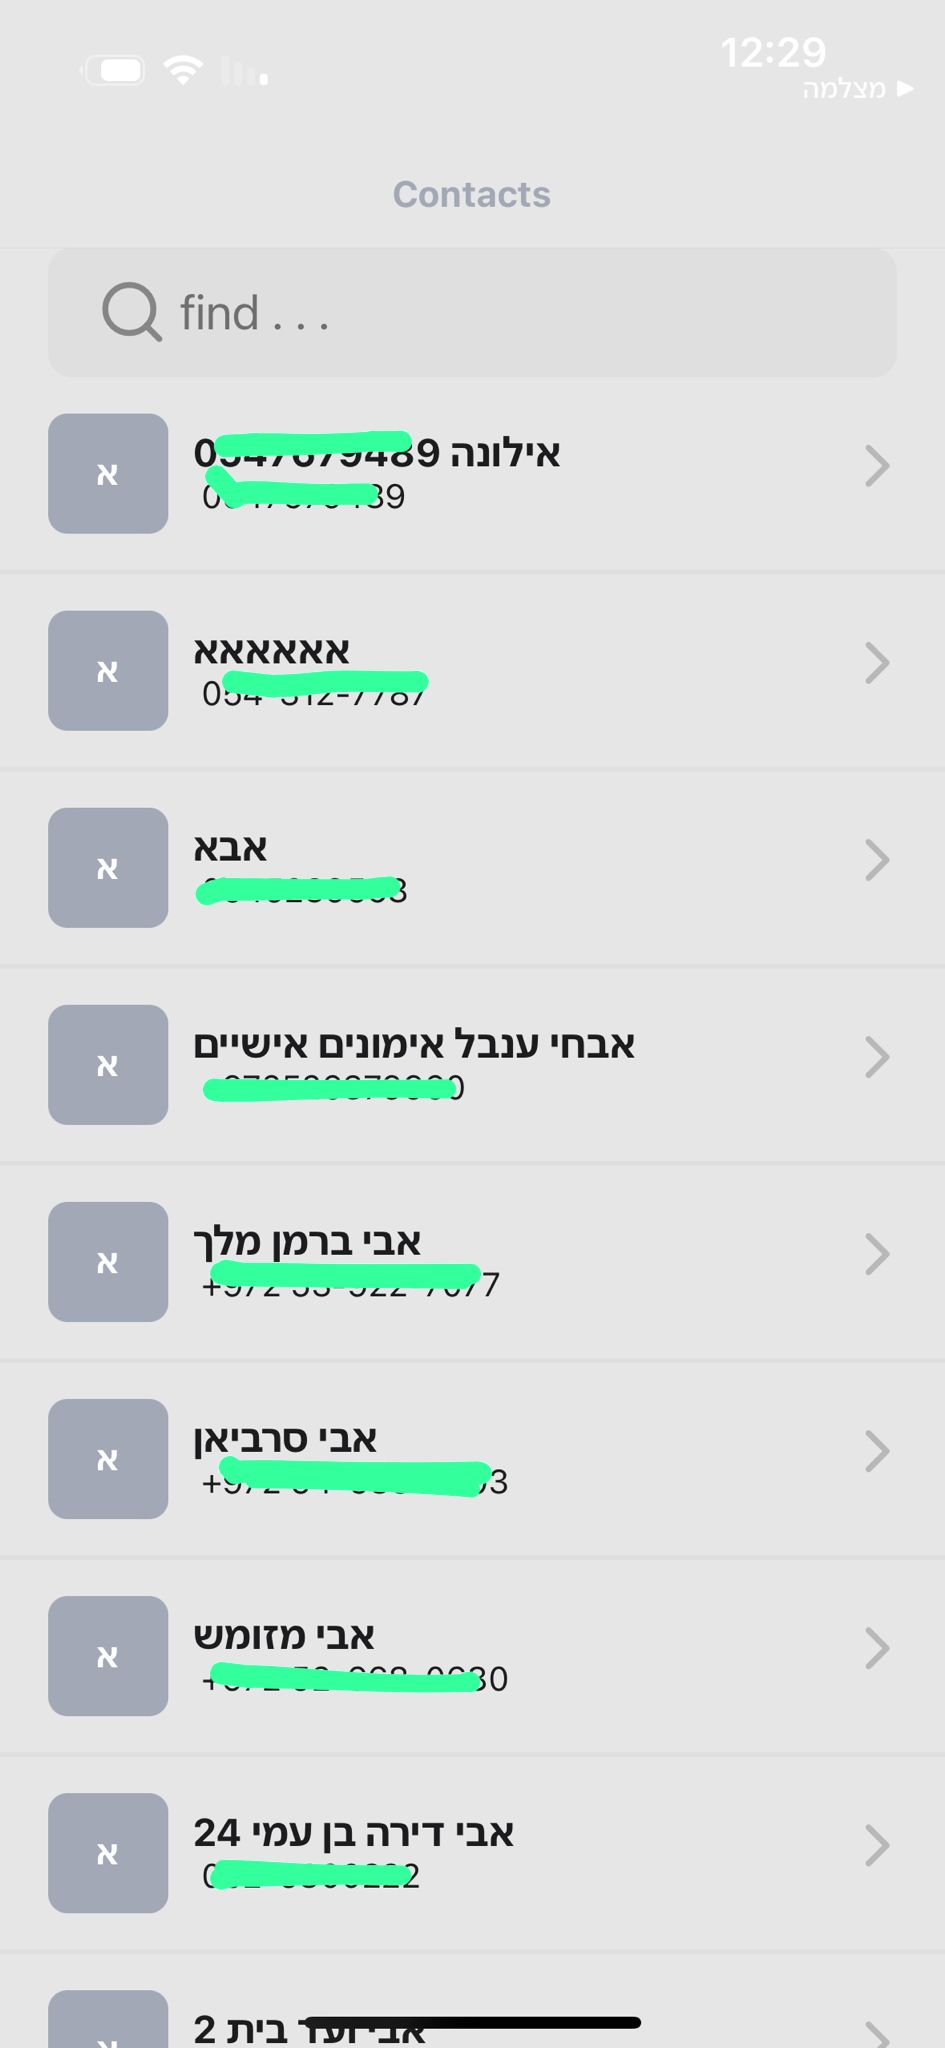
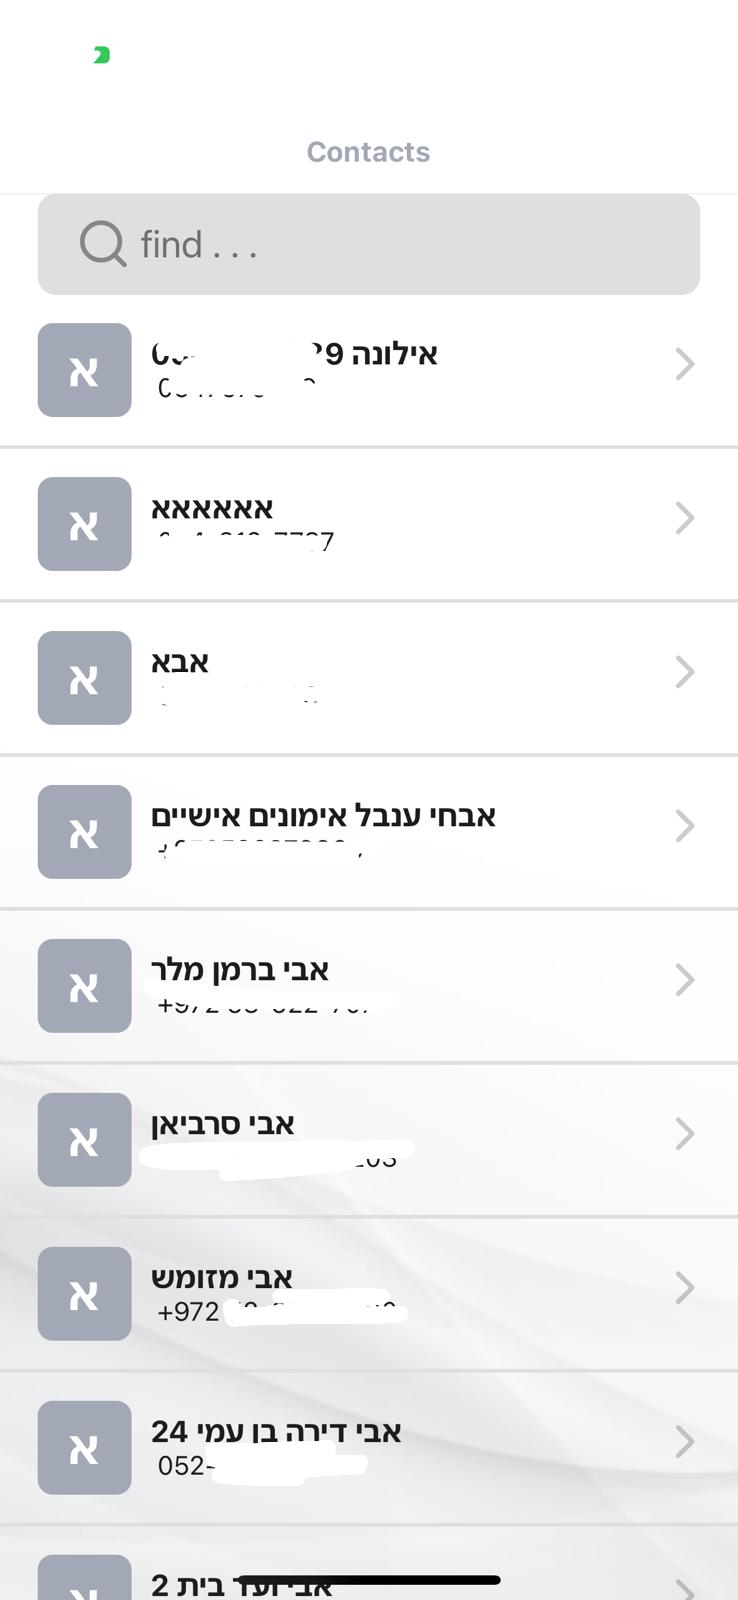
final push
all organized with no comments or logs

diff --git a/screens/ContactsScreen.js b/screens/ContactsScreen.js
@@ -2,18 +2,20 @@ import React, { useState, useEffect } from 'react';
 import { StyleSheet, View, ImageBackground } from 'react-native';
 import * as Contacts from 'expo-contacts';
 import ContactsList from '../components/ContactsList';
+import LoadingSpinner from '../components/ui/LoadingSpinner'
 import { Base } from '../styles';
 import FilterNav from '../components/FilterNav';
 
 const ContactsScreen = () => {
-  const [contacts, setContacts] = useState([]);
-  const [filtredContacts, setFilteredContacts] = useState([]);
+  const [contacts, setContacts] = useState();
+  const [filtredContacts, setFilteredContacts] = useState();
   const [filterByContactsNameValue, setFilterByContactsNameValue] = useState('');
   const [filterMode, setFilterMode] = useState(false)
 
   useEffect(() => {
-    setData()
+    setData();
   }, []);
+
 
   const setData = async () => {
     try {
@@ -85,11 +87,12 @@ const ContactsScreen = () => {
 
     <View style={styles.appScreen}>
       <ImageBackground
-        source={{ uri: ('https://img.freepik.com/premium-vector/soft-gray-white-wave-background-design_41084-352.jpg') }}
-        style={{flex: 1}}
+        source={{ uri: ('https://res.cloudinary.com/dzeycmkct/image/upload/v1708801483/soft-gray-white-wave-background-design_41084-352_vbd5xf.jpg') }}
+        style={{ flex: 1 }}
       >
-      <FilterNav onChangeText={onChangeTextHandler} filterContactsByNameValue={filterByContactsNameValue} />
-        {filtredContacts  && filterMode && <ContactsList contacts={filtredContacts} />}
+        <FilterNav onChangeText={onChangeTextHandler} filterContactsByNameValue={filterByContactsNameValue} />
+        {!filtredContacts && !contacts && <LoadingSpinner size="large" />}
+        {filtredContacts && filterMode && <ContactsList contacts={filtredContacts} />}
         {contacts && !filterMode && <ContactsList contacts={contacts} />}
       </ImageBackground>
     </View >

diff --git a/components/ui/LoadingSpinner.js b/components/ui/LoadingSpinner.js
@@ -1,18 +1,19 @@
 import React from 'react';
-import {ActivityIndicator, StyleSheet, View} from 'react-native';
+import { ActivityIndicator, StyleSheet, View } from 'react-native';
 
-const LoadingSpinner = ({size}) => (
+const LoadingSpinner = ({ size }) => (
   <View style={[styles.container]}>
- 
-    <ActivityIndicator size={size} color="#00ff00" />
+
+    <ActivityIndicator size={size} color="black" />
   </View>
 );
 
 const styles = StyleSheet.create({
   container: {
     flex: 1,
-    display:'flex',
-    justifyContent: 'flex-end',
+    display: 'flex',
+    justifyContent: 'center',
+    alignItems: 'center',
   },
 });
 

diff --git a/screens/ContactProfileScreen.js b/screens/ContactProfileScreen.js
@@ -32,7 +32,7 @@ const ContactProfileScreen = () => {
   };
 
   return (
-    <ImageBackground source={{ uri: ('https://wallpaper-mania.com/wp-content/uploads/2018/09/High_resolution_wallpaper_background_ID_77700346402.jpg') }}
+    <ImageBackground source={{ uri: ('https://res.cloudinary.com/dzeycmkct/image/upload/v1708801398/High_resolution_wallpaper_background_ID_77700346402_h3n46o.jpg') }}
       style={styles.profileScreen}
     >
       <View style={{ flex: 1 }}>

diff --git a/components/ContactsList.js b/components/ContactsList.js
@@ -12,7 +12,7 @@ const ContactsList = ({ contacts }) => {
     return (
       <View style={styles.noContactsFoundContainer}>
         <Image
-          source={{ uri: ('https://cdn-icons-png.flaticon.com/512/6134/6134065.png') }}
+          source={{ uri: ('https://res.cloudinary.com/dzeycmkct/image/upload/v1708801376/6134065_nea8og.png') }}
           style={{ height: 100, width: 100 , marginBottom: 20}}
         ></Image>
         <Text style={{fontSize:20}}>

diff --git a/styles/base/base.js b/styles/base/base.js
@@ -1,7 +1,5 @@
-import * as Colors from './colors'
 
 export const appScreen = {
-   
     flex: 1
 };
 

diff --git a/README.md b/README.md
@@ -14,8 +14,10 @@ To install the dependencies, run:
 
 ## Screenshots
 
-<img src="/assets/screenshot1.jpeg" alt="Screenshot 1" width="300">
-<img src="/assets/screenshot2.jpeg" alt="Screenshot 2" width="300">
+<img src="/assets/screenshot1.jpeg" alt="Screenshot 1" width="200">
+<img src="/assets/screenshot2.jpeg" alt="Screenshot 2" width="200" >
+<img src="/assets/screenshot3.jpeg" alt="Screenshot 2" width="200">
+
 
 ## Usage
 
